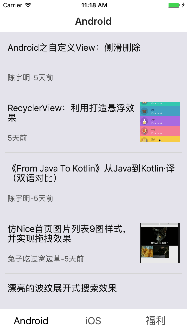
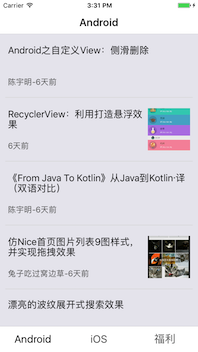
更换iOS截图

diff --git a/RNGank/android.js b/RNGank/android.js
@@ -1,0 +1,172 @@
+import React, { Component } from 'react'
+import { connect } from 'react-redux'
+import {
+  View,
+  FlatList,
+  Text
+} from 'react-native'
+import * as AndroidAction from '../../actions/android'
+import Screen from '../../utils/screenUtils'
+// import Pages from '../../constants/pages'
+import { callApi, pushWap } from '../../actions/app'
+import StyleSheet from '../../utils/mStyleSheet'
+import ItemCell from '../../components/common/itemCell'
+
+const styles = StyleSheet.create({
+  separator: {
+    height: Screen.scaleSizeH(2),
+    backgroundColor: '#DDD',
+    marginHorizontal: 10
+  },
+  footer: {
+    alignItems: 'center',
+    justifyContent: 'center'
+  },
+  textFooter: {
+    textAlign: 'center'
+  }
+})
+
+class Android extends Component {
+  constructor (props) {
+    super(props)
+    this.page = 1
+    this.state = {
+      refreshing: false,
+      loading: false
+    }
+    this.displayName = 'Android'
+    this.goNext = this.goNext.bind(this)
+    this.getAndroidData = this.getAndroidData.bind(this)
+    this.renderAndroidItem = this.renderAndroidItem.bind(this)
+    this.onRefresh = this.onRefresh.bind(this)
+    this.loadMore = this.loadMore.bind(this)
+    this.renderFooter = this.renderFooter.bind(this)
+    this.renderSeparator = this.renderSeparator.bind(this)
+  }
+  static navigationOptions = {
+    tabBarLabel: 'Android',
+    title: 'Android'
+  }
+
+  componentDidMount () {
+    this.getAndroidData(this.page)
+  }
+
+  getAndroidData (page, done) {
+    const { getAndroidData } = this.props
+    getAndroidData(page, done)
+  }
+
+  onRefresh () {
+    const {refreshing, loading} = this.state
+    if (refreshing || loading) {
+      return
+    }
+    this.setState({
+      refreshing: true,
+      loading: false
+    })
+    this.getAndroidData(this.page = 1, () => {
+      this.setState({
+        refreshing: false
+      })
+    })
+  }
+  loadMore () {
+    const {refreshing, loading} = this.state
+    if (refreshing || loading) {
+      return
+    }
+    this.setState({
+      refreshing: false,
+      loading: true
+    })
+    this.getAndroidData(this.page = this.page + 1, () => {
+      this.setState({
+        loading: false
+      })
+    })
+  }
+
+  renderAndroidItem (info) {
+    return (
+      <ItemCell
+        data={info}
+        clickFunc={() => this.goNext(info.index)}
+        />
+    )
+  }
+
+  renderSeparator () {
+    return (
+      <View style={styles.separator} />
+    )
+  }
+
+  renderFooter () {
+    return (
+      <View style={styles.footer}>
+        <Text style={styles.textFooter}>
+          加载中...
+        </Text>
+      </View>
+    )
+  }
+
+  goNext (index) {
+    const { dispatch, androidList } = this.props
+    console.log('androidList', androidList.get(index))
+    dispatch(pushWap(androidList.get(index)))
+  }
+
+  render () {
+    const { androidList } = this.props
+    console.log('androidData', androidList.toJS(), androidList.size)
+    let listView
+    if (androidList && androidList.size) {
+      listView = (
+        <FlatList
+          ItemSeparatorComponent={this.renderSeparator}
+          ListFooterComponent={this.renderFooter}
+          data={androidList.toArray()}
+          renderItem={this.renderAndroidItem}
+          keyExtractor={(item, index) => index}
+          onRefresh={this.onRefresh}
+          refreshing={this.state.refreshing}
+          onEndReachedThreshold={0.1}
+          onEndReached={this.loadMore}
+        />
+      )
+    }
+    return (
+      <View>
+        {listView}
+      </View>
+    )
+  }
+}
+function mapStateToProps (state) {
+  const { android } = state
+  return {
+    androidList: android.get('androidList')
+  }
+}
+
+function mapDispatchToProps (dispatch) {
+  return {
+    getAndroidData: (page, done) => dispatch(
+      callApi({
+        api: `/data/Android/10/${page}`,
+        success: (response) => dispatch(
+          AndroidAction.androidUpdate(response, page)
+        ),
+        method: 'GET',
+        done
+      })
+    ),
+    dispatch
+  }
+}
+
+export default connect(mapStateToProps, mapDispatchToProps)(Android)
